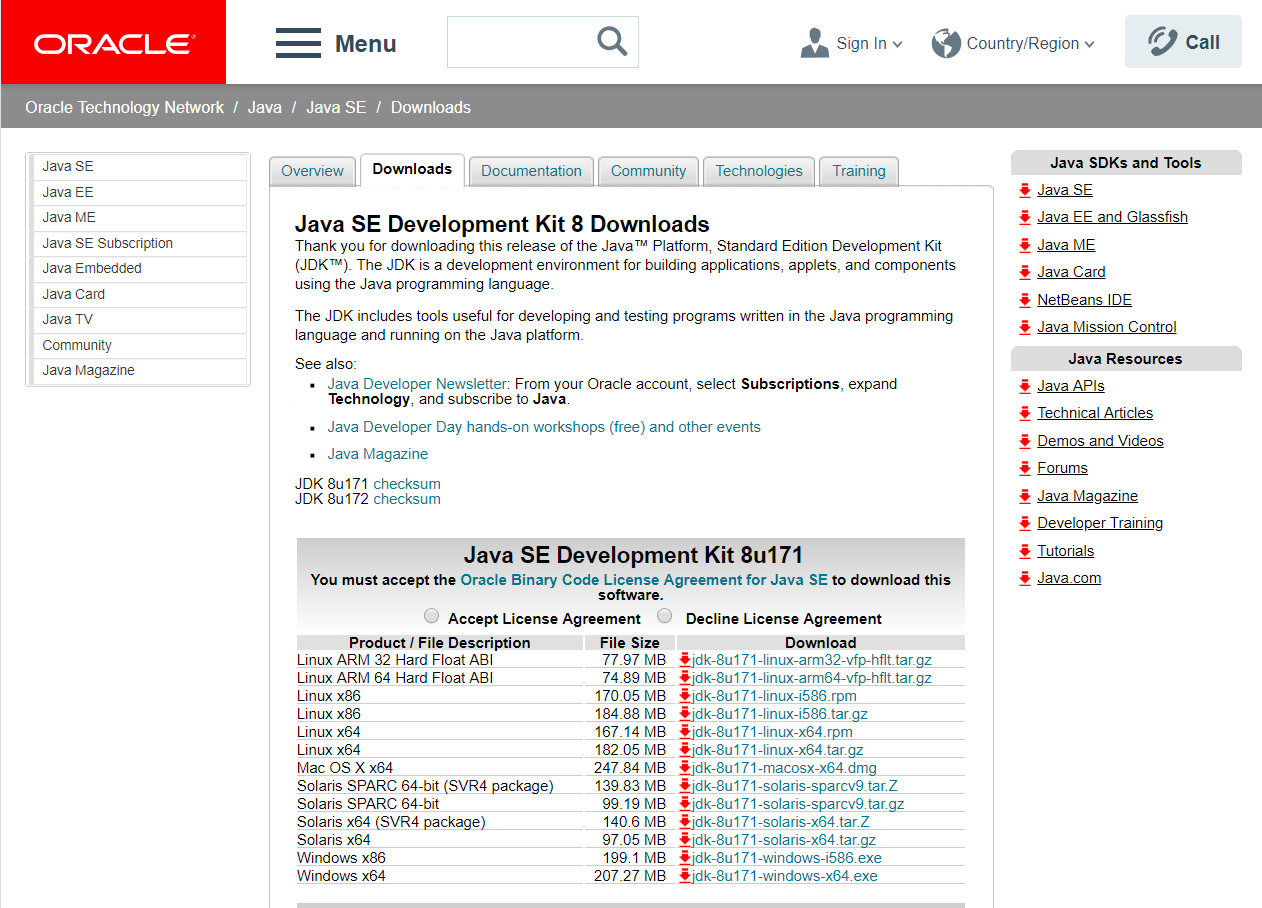
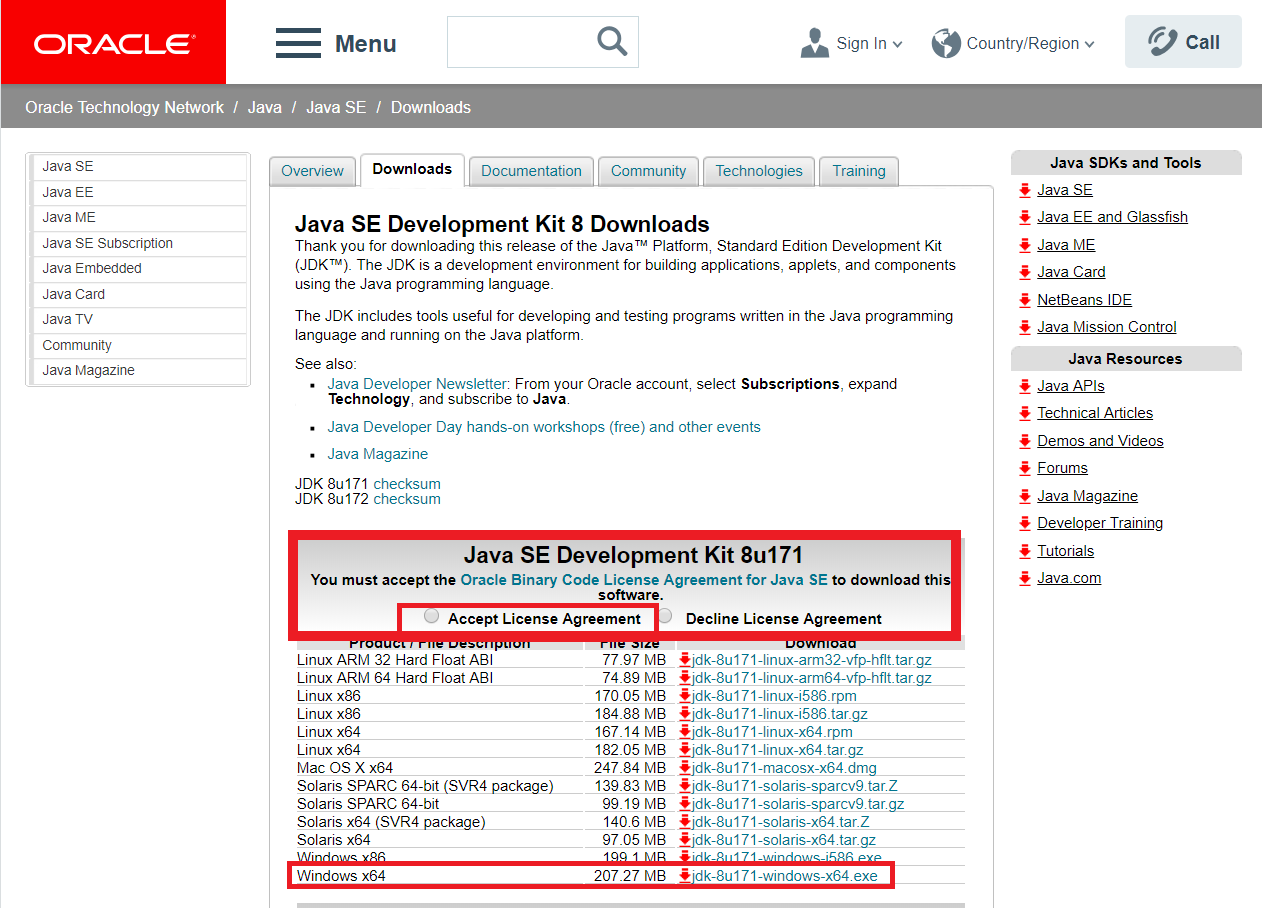
Site updated: 2018-07-16 01:03:42

Changed region(s): [[0.2163, 0.5859, 0.7726, 0.7093], [0.2163, 0.9251, 0.7108, 0.9868]]

diff --git a/2018/07/14/jdk1.8安装及环境变量配置/index.html b/2018/07/14/jdk1.8安装及环境变量配置/index.html
@@ -79,19 +79,19 @@
 
 
 
-<meta name="description" content="前言虽然jdk1.9版本已经问世，但是许多其他的配套设施并不一定支持jdk1.9版本，所以这里仅带领你配置jdk1.8。而jdk1.9的操作也几乎是相同的。 请注意： 1. 本教程适用于windows10 64位操作系统 2. 配置jdk1.8 下载与安装jdk1.8下载百度 进入官网的下载地址jdk1.8下载地址 出现如下界面 安装配置环境变量">
+<meta name="description" content="一、前言虽然jdk1.9版本已经问世，但是许多其他的配套设施并不一定支持jdk1.9版本，所以这里仅带领你配置jdk1.8。而jdk1.9的操作也几乎是相同的。  本教程适用于windows10 64位操作系统 配置jdk1.8  二、下载与安装jdk1.82.1下载进入官网的下载地址jdk1.8下载地址 出现如下界面  按照红色方框的指示，先选中 [Accept License Agreemen">
 <meta name="keywords" content="java">
 <meta property="og:type" content="article">
 <meta property="og:title" content="java1.8安装及环境变量配置">
 <meta property="og:url" content="http://yoursite.com/2018/07/14/jdk1.8安装及环境变量配置/index.html">
 <meta property="og:site_name" content="NoJacky">
-<meta property="og:description" content="前言虽然jdk1.9版本已经问世，但是许多其他的配套设施并不一定支持jdk1.9版本，所以这里仅带领你配置jdk1.8。而jdk1.9的操作也几乎是相同的。 请注意： 1. 本教程适用于windows10 64位操作系统 2. 配置jdk1.8 下载与安装jdk1.8下载百度 进入官网的下载地址jdk1.8下载地址 出现如下界面 安装配置环境变量">
+<meta property="og:description" content="一、前言虽然jdk1.9版本已经问世，但是许多其他的配套设施并不一定支持jdk1.9版本，所以这里仅带领你配置jdk1.8。而jdk1.9的操作也几乎是相同的。  本教程适用于windows10 64位操作系统 配置jdk1.8  二、下载与安装jdk1.82.1下载进入官网的下载地址jdk1.8下载地址 出现如下界面  按照红色方框的指示，先选中 [Accept License Agreemen">
 <meta property="og:locale" content="zh-Hans">
 <meta property="og:image" content="http://yoursite.com/images/image1.1.png">
-<meta property="og:updated_time" content="2018-07-15T11:48:26.093Z">
+<meta property="og:updated_time" content="2018-07-15T17:02:35.899Z">
 <meta name="twitter:card" content="summary">
 <meta name="twitter:title" content="java1.8安装及环境变量配置">
-<meta name="twitter:description" content="前言虽然jdk1.9版本已经问世，但是许多其他的配套设施并不一定支持jdk1.9版本，所以这里仅带领你配置jdk1.8。而jdk1.9的操作也几乎是相同的。 请注意： 1. 本教程适用于windows10 64位操作系统 2. 配置jdk1.8 下载与安装jdk1.8下载百度 进入官网的下载地址jdk1.8下载地址 出现如下界面 安装配置环境变量">
+<meta name="twitter:description" content="一、前言虽然jdk1.9版本已经问世，但是许多其他的配套设施并不一定支持jdk1.9版本，所以这里仅带领你配置jdk1.8。而jdk1.9的操作也几乎是相同的。  本教程适用于windows10 64位操作系统 配置jdk1.8  二、下载与安装jdk1.82.1下载进入官网的下载地址jdk1.8下载地址 出现如下界面  按照红色方框的指示，先选中 [Accept License Agreemen">
 <meta name="twitter:image" content="http://yoursite.com/images/image1.1.png">
 
 
@@ -354,14 +354,24 @@
       
 
       
-        <h1 id="前言"><a href="#前言" class="headerlink" title="前言"></a>前言</h1><pre><code>虽然jdk1.9版本已经问世，但是许多其他的配套设施并不一定支持jdk1.9版本，所以这里仅带领你配置jdk1.8。而jdk1.9的操作也几乎是相同的。
-请注意：
-1. 本教程适用于windows10 64位操作系统
-2. 配置jdk1.8
-</code></pre><h2 id="下载与安装jdk1-8"><a href="#下载与安装jdk1-8" class="headerlink" title="下载与安装jdk1.8"></a>下载与安装jdk1.8</h2><h3 id="下载"><a href="#下载" class="headerlink" title="下载"></a>下载</h3><p><a href="www.baidu.com">百度</a></p>
-<p>进入官网的下载地址<a href="http://www.oracle.com/technetwork/java/javase/downloads/jdk8-downloads-2133151.html" target="_blank" rel="noopener">jdk1.8下载地址</a></p>
+        <h2 id="一、前言"><a href="#一、前言" class="headerlink" title="一、前言"></a>一、前言</h2><p>虽然jdk1.9版本已经问世，但是许多其他的配套设施并不一定支持jdk1.9版本，所以这里仅带领你配置jdk1.8。而jdk1.9的操作也几乎是相同的。</p>
+<ol>
+<li>本教程适用于windows10 64位操作系统</li>
+<li>配置jdk1.8</li>
+</ol>
+<h2 id="二、下载与安装jdk1-8"><a href="#二、下载与安装jdk1-8" class="headerlink" title="二、下载与安装jdk1.8"></a>二、下载与安装jdk1.8</h2><h3 id="2-1下载"><a href="#2-1下载" class="headerlink" title="2.1下载"></a>2.1下载</h3><p>进入官网的下载地址<a href="http://www.oracle.com/technetwork/java/javase/downloads/jdk8-downloads-2133151.html" target="_blank" rel="noopener">jdk1.8下载地址</a></p>
 <p>出现如下界面<img src="/images/image1.1.png" alt="官网下载显示"></p>
-<h3 id="安装"><a href="#安装" class="headerlink" title="安装"></a>安装</h3><h2 id="配置环境变量"><a href="#配置环境变量" class="headerlink" title="配置环境变量"></a>配置环境变量</h2>
+<ol>
+<li>按照红色方框的指示，先选中 [Accept License Agreement]，表示同意安装使用协议；</li>
+<li>选择Windows x64(即64位操作系统),点击下载；</li>
+<li>等待下载完成即可。</li>
+</ol>
+<h3 id="2-2安装"><a href="#2-2安装" class="headerlink" title="2.2安装"></a>2.2安装</h3><p>下载之后默认安装即可。</p>
+<h2 id="三、配置环境变量"><a href="#三、配置环境变量" class="headerlink" title="三、配置环境变量"></a>三、配置环境变量</h2><ol>
+<li>找到系统环境变量</li>
+<li>新建系统变量: 变量名：JAVA_HOME ， 变量值：(你的jdk的安装路径)</li>
+</ol>
+
       
     </div>
     
@@ -565,7 +575,7 @@
             
 
             
-              <div class="post-toc-content"><ol class="nav"><li class="nav-item nav-level-1"><a class="nav-link" href="#前言"><span class="nav-number">1.</span> <span class="nav-text">前言</span></a><ol class="nav-child"><li class="nav-item nav-level-2"><a class="nav-link" href="#下载与安装jdk1-8"><span class="nav-number">1.1.</span> <span class="nav-text">下载与安装jdk1.8</span></a><ol class="nav-child"><li class="nav-item nav-level-3"><a class="nav-link" href="#下载"><span class="nav-number">1.1.1.</span> <span class="nav-text">下载</span></a></li><li class="nav-item nav-level-3"><a class="nav-link" href="#安装"><span class="nav-number">1.1.2.</span> <span class="nav-text">安装</span></a></li></ol></li><li class="nav-item nav-level-2"><a class="nav-link" href="#配置环境变量"><span class="nav-number">1.2.</span> <span class="nav-text">配置环境变量</span></a></li></ol></li></ol></div>
+              <div class="post-toc-content"><ol class="nav"><li class="nav-item nav-level-2"><a class="nav-link" href="#一、前言"><span class="nav-number">1.</span> <span class="nav-text">一、前言</span></a></li><li class="nav-item nav-level-2"><a class="nav-link" href="#二、下载与安装jdk1-8"><span class="nav-number">2.</span> <span class="nav-text">二、下载与安装jdk1.8</span></a><ol class="nav-child"><li class="nav-item nav-level-3"><a class="nav-link" href="#2-1下载"><span class="nav-number">2.1.</span> <span class="nav-text">2.1下载</span></a></li><li class="nav-item nav-level-3"><a class="nav-link" href="#2-2安装"><span class="nav-number">2.2.</span> <span class="nav-text">2.2安装</span></a></li></ol></li><li class="nav-item nav-level-2"><a class="nav-link" href="#三、配置环境变量"><span class="nav-number">3.</span> <span class="nav-text">三、配置环境变量</span></a></li></ol></div>
             
 
           </div>

diff --git a/index.html b/index.html
@@ -355,14 +355,24 @@
       
         
           
-            <h1 id="前言"><a href="#前言" class="headerlink" title="前言"></a>前言</h1><pre><code>虽然jdk1.9版本已经问世，但是许多其他的配套设施并不一定支持jdk1.9版本，所以这里仅带领你配置jdk1.8。而jdk1.9的操作也几乎是相同的。
-请注意：
-1. 本教程适用于windows10 64位操作系统
-2. 配置jdk1.8
-</code></pre><h2 id="下载与安装jdk1-8"><a href="#下载与安装jdk1-8" class="headerlink" title="下载与安装jdk1.8"></a>下载与安装jdk1.8</h2><h3 id="下载"><a href="#下载" class="headerlink" title="下载"></a>下载</h3><p><a href="www.baidu.com">百度</a></p>
-<p>进入官网的下载地址<a href="http://www.oracle.com/technetwork/java/javase/downloads/jdk8-downloads-2133151.html" target="_blank" rel="noopener">jdk1.8下载地址</a></p>
+            <h2 id="一、前言"><a href="#一、前言" class="headerlink" title="一、前言"></a>一、前言</h2><p>虽然jdk1.9版本已经问世，但是许多其他的配套设施并不一定支持jdk1.9版本，所以这里仅带领你配置jdk1.8。而jdk1.9的操作也几乎是相同的。</p>
+<ol>
+<li>本教程适用于windows10 64位操作系统</li>
+<li>配置jdk1.8</li>
+</ol>
+<h2 id="二、下载与安装jdk1-8"><a href="#二、下载与安装jdk1-8" class="headerlink" title="二、下载与安装jdk1.8"></a>二、下载与安装jdk1.8</h2><h3 id="2-1下载"><a href="#2-1下载" class="headerlink" title="2.1下载"></a>2.1下载</h3><p>进入官网的下载地址<a href="http://www.oracle.com/technetwork/java/javase/downloads/jdk8-downloads-2133151.html" target="_blank" rel="noopener">jdk1.8下载地址</a></p>
 <p>出现如下界面<img src="/images/image1.1.png" alt="官网下载显示"></p>
-<h3 id="安装"><a href="#安装" class="headerlink" title="安装"></a>安装</h3><h2 id="配置环境变量"><a href="#配置环境变量" class="headerlink" title="配置环境变量"></a>配置环境变量</h2>
+<ol>
+<li>按照红色方框的指示，先选中 [Accept License Agreement]，表示同意安装使用协议；</li>
+<li>选择Windows x64(即64位操作系统),点击下载；</li>
+<li>等待下载完成即可。</li>
+</ol>
+<h3 id="2-2安装"><a href="#2-2安装" class="headerlink" title="2.2安装"></a>2.2安装</h3><p>下载之后默认安装即可。</p>
+<h2 id="三、配置环境变量"><a href="#三、配置环境变量" class="headerlink" title="三、配置环境变量"></a>三、配置环境变量</h2><ol>
+<li>找到系统环境变量</li>
+<li>新建系统变量: 变量名：JAVA_HOME ， 变量值：(你的jdk的安装路径)</li>
+</ol>
+
           
         
       

diff --git a/css/main.css b/css/main.css
@@ -1943,7 +1943,7 @@ pre .javascript .function {
   width: 4px;
   height: 4px;
   border-radius: 50%;
-  background: #5c177c;
+  background: #ff09fb;
 }
 .links-of-blogroll {
   font-size: 13px;
